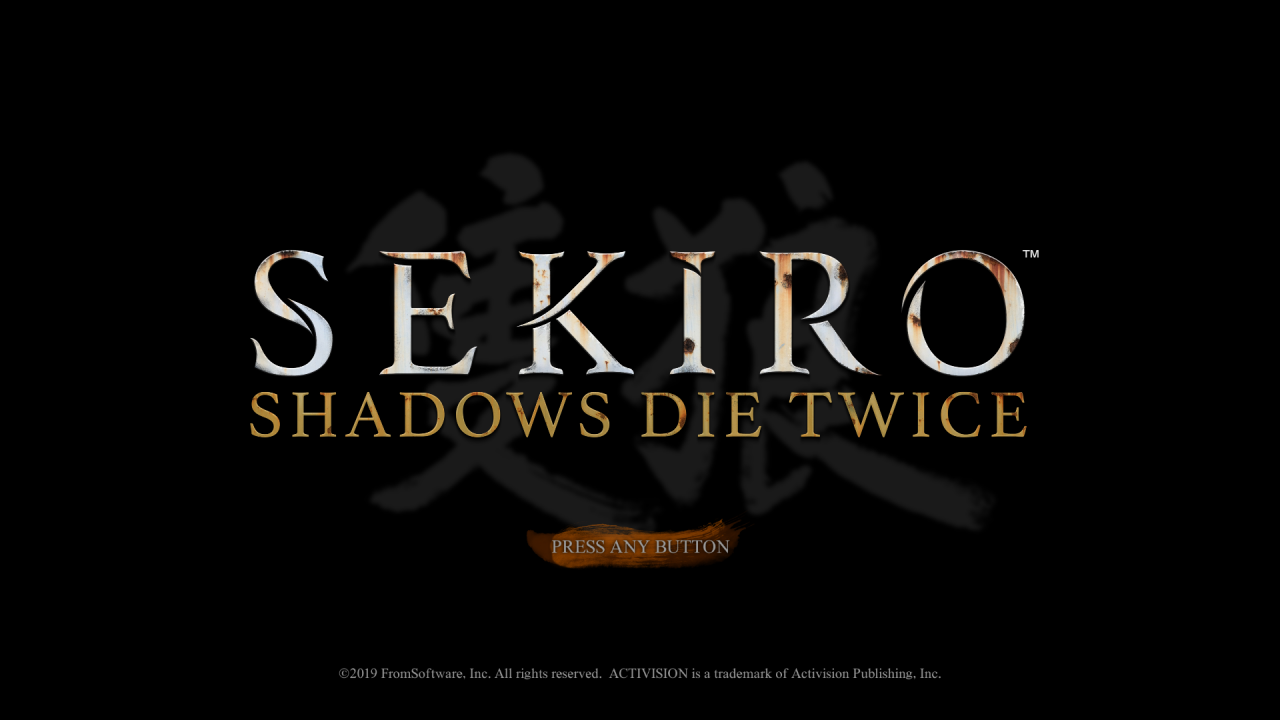
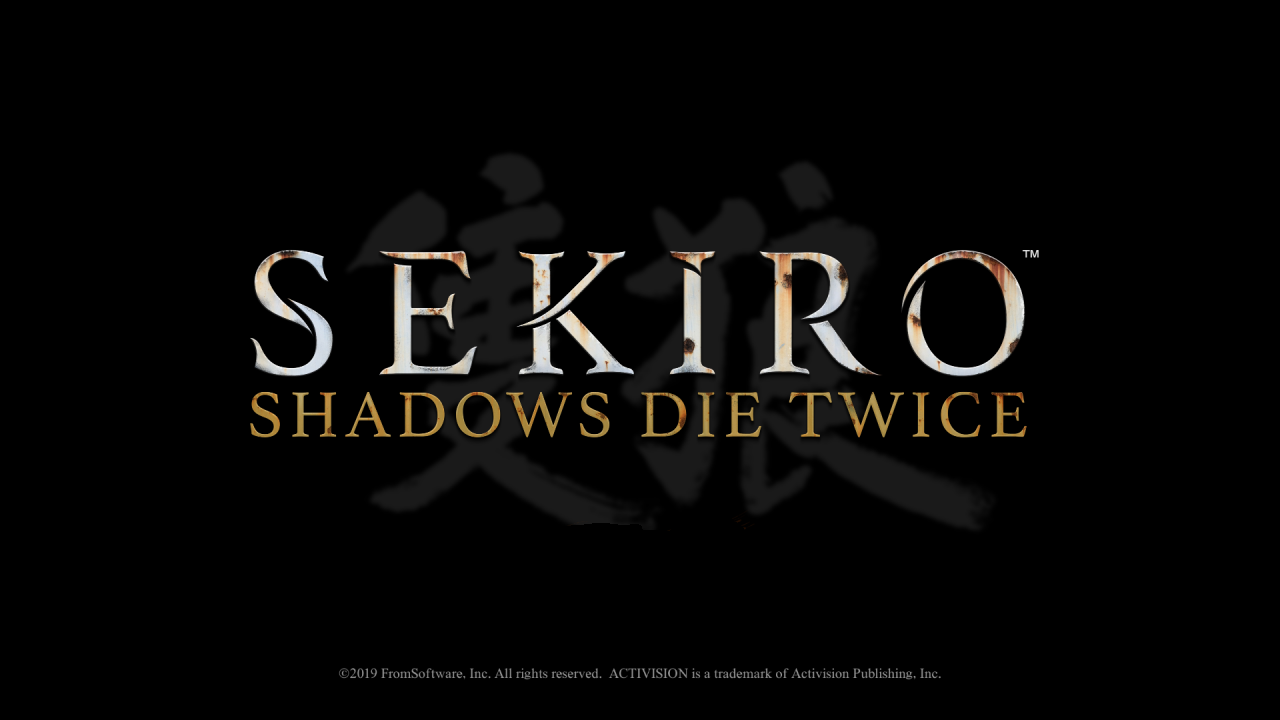
增加难度选项

Changed region(s): [[0.4062, 0.7028, 0.5938, 0.7944]]

diff --git a/main.py b/main.py
@@ -68,6 +68,9 @@ class Button(object):
 
 button = {
     'start': {
+        'Easy': Button((WIDTH / 2 - 110, HEIGHT * 64 / 100), 'buttoneasy'),
+        'Normal': Button((WIDTH / 2 - 110, HEIGHT * 74 / 100), 'buttonnormal'),
+        'Hard': Button((WIDTH / 2 - 110, HEIGHT * 84 / 100), 'buttonhard'),
     },
     'setting': {
     },
@@ -82,6 +85,8 @@ now_pressed_key = set()
 now_pressed_button = None
 
 now_page = 'start'
+
+difficulty = None
 
 #敌人的行为
 def agent(player1,player2):
@@ -434,7 +439,14 @@ def special_defended(u,v):
     pass
 
 def update():
-    global now_page, now_pressed_button
+    global now_page, now_pressed_button, bgmflag, difficulty
+
+    if now_page == 'start':
+        if now_pressed_button in ['Easy', 'Normal', 'Hard']:
+            difficulty = now_pressed_button
+            bgmflag = True
+            now_page = 'battle'
+            return
 
     if now_page == 'battle':
         player1.update()
@@ -473,10 +485,6 @@ def on_mouse_down(pos):
             now_pressed_button = i
 
 def on_key_down(key):
-    global now_page,bgmflag
-    if now_page=="start":
-        now_page="battle"
-        bgmflag=True
     now_pressed_key.add(key)
 
 def on_key_up(key):
